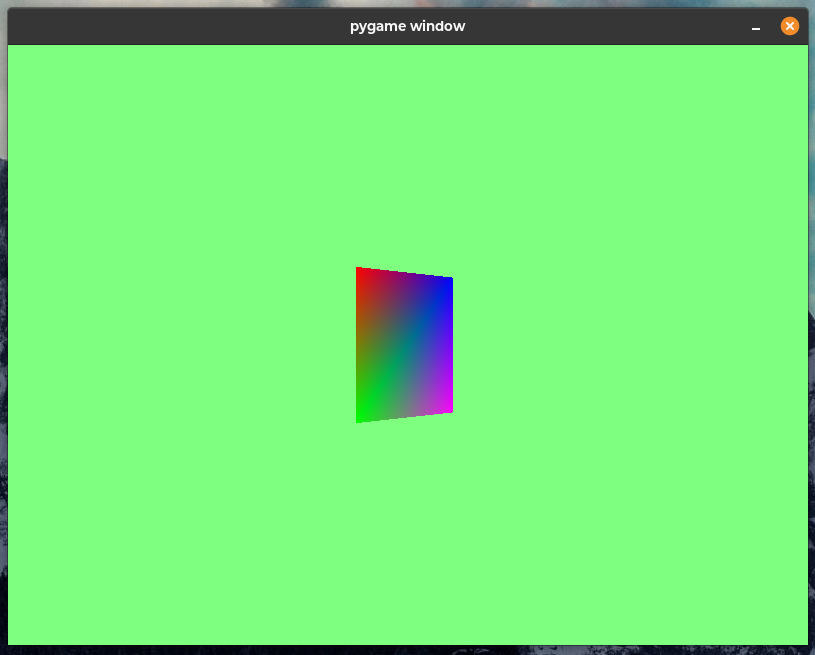
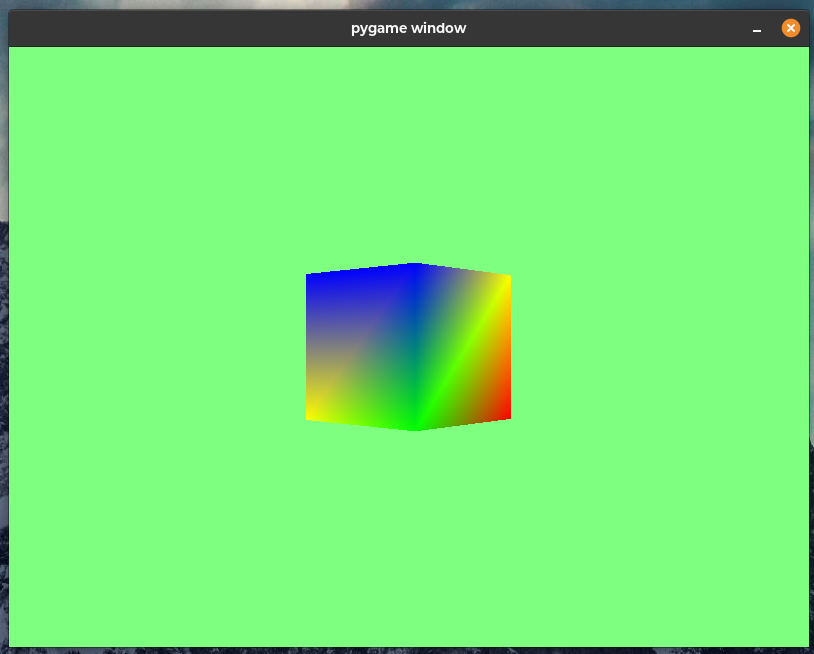
interpolated cube code

Changed region(s): [[0.0, 0.0, 1.0, 1.0], [0.3686, 0.3976, 0.645, 0.6728]]

diff --git a/demo.py b/demo.py
@@ -43,15 +43,35 @@ shader = compileProgram(
 )
 
 vertex_data = np.array([
-  0.5, 0.5, 0.0, 1.0, 0.0, 0.0,     # top left
-  0.5, -0.5, 0.0, 0.0, 1.0, 0.0,    # top right
-  -0.5, 0.5, 0.0, 0.0, 0.0, 1.0,     # bottom left
-  -0.5, -0.5, 0.0, 1.0, 0.0, 1.0    # bottom right
+  -0.5, -0.5,  0.5,    1, 0, 0,
+  0.5, -0.5,  0.5,    1, 1, 0,
+  0.5,  0.5,  0.5,    0, 0, 1,
+  -0.5,  0.5,  0.5,    1, 1, 0,
+  -0.5, -0.5, -0.5,    1, 0, 0,
+  0.5, -0.5, -0.5,    0, 1, 0,
+  0.5,  0.5, -0.5,    0, 0, 1,
+  -0.5,  0.5, -0.5,    1, 1, 0
 ], dtype=np.float32)
 
 index_data = np.array([
-  0, 1, 2,  # first triangle
-  1, 2, 3,  # second triangle
+	# front
+	0, 1, 2,
+	2, 3, 0,
+	# right
+	1, 5, 6,
+	6, 2, 1,
+	# back
+	7, 6, 5,
+	5, 4, 7,
+	# left
+	4, 0, 3,
+	3, 7, 4,
+	# bottom
+	4, 5, 1,
+	1, 0, 4,
+	# top
+	3, 2, 6,
+	6, 7, 3
 ], dtype=np.uint32)
 
 # VBO
@@ -108,14 +128,25 @@ def create_matrix(counter):
 
 glViewport(0, 0, 800, 600)
 
+glEnable(GL_DEPTH_TEST)
 
 
+def process_input():
+  for event in pygame.event.get():
+    if event.type == pygame.QUIT:
+      exit()
+    elif event.type == pygame.KEYDOWN:
+      if event.key == pygame.K_w:
+        glPolygonMode(GL_FRONT_AND_BACK, GL_LINE)
+      elif event.key == pygame.K_f:
+        glPolygonMode(GL_FRONT_AND_BACK, GL_FILL)
 
 running = True
 counter = 0
+
 while running:
 
-  glClear(GL_COLOR_BUFFER_BIT)
+  glClear(GL_COLOR_BUFFER_BIT | GL_DEPTH_BUFFER_BIT)
   glClearColor(0.5, 1.0, 0.5, 1.0)
   
   glEnableVertexAttribArray(0)
@@ -132,16 +163,11 @@ while running:
     glm.value_ptr(theMatrix)
   )
 
-  # 
-  counter += 1
-  clock.tick(0)
-
-
-  # glDrawArrays(GL_TRIANGLES, 0, 3) # vertex data array len (row), triangles
-  glDrawElements(GL_TRIANGLES, 6, GL_UNSIGNED_INT, None) # vertex data array len (row), cubes
+  # glDrawArrays(GL_TRIANGLES, 0, 6)
+  glDrawElements(GL_TRIANGLES, 36, GL_UNSIGNED_INT, None)
 
   pygame.display.flip()
 
-  for event in pygame.event.get():
-    if event.type == pygame.QUIT:
-      running = False
+  process_input()
+  counter += 1
+  clock.tick(15)

diff --git a/README.md b/README.md
@@ -1,5 +1,6 @@
 # python-opengl
 
 Simple OpenGL examples with pygame and pyopengl
+Can switch between wireframe (press W key) or filled model (press F key)
 
 ![out](https://github.com/gusmendez99/python-opengl/raw/main/out.png?raw=true)
